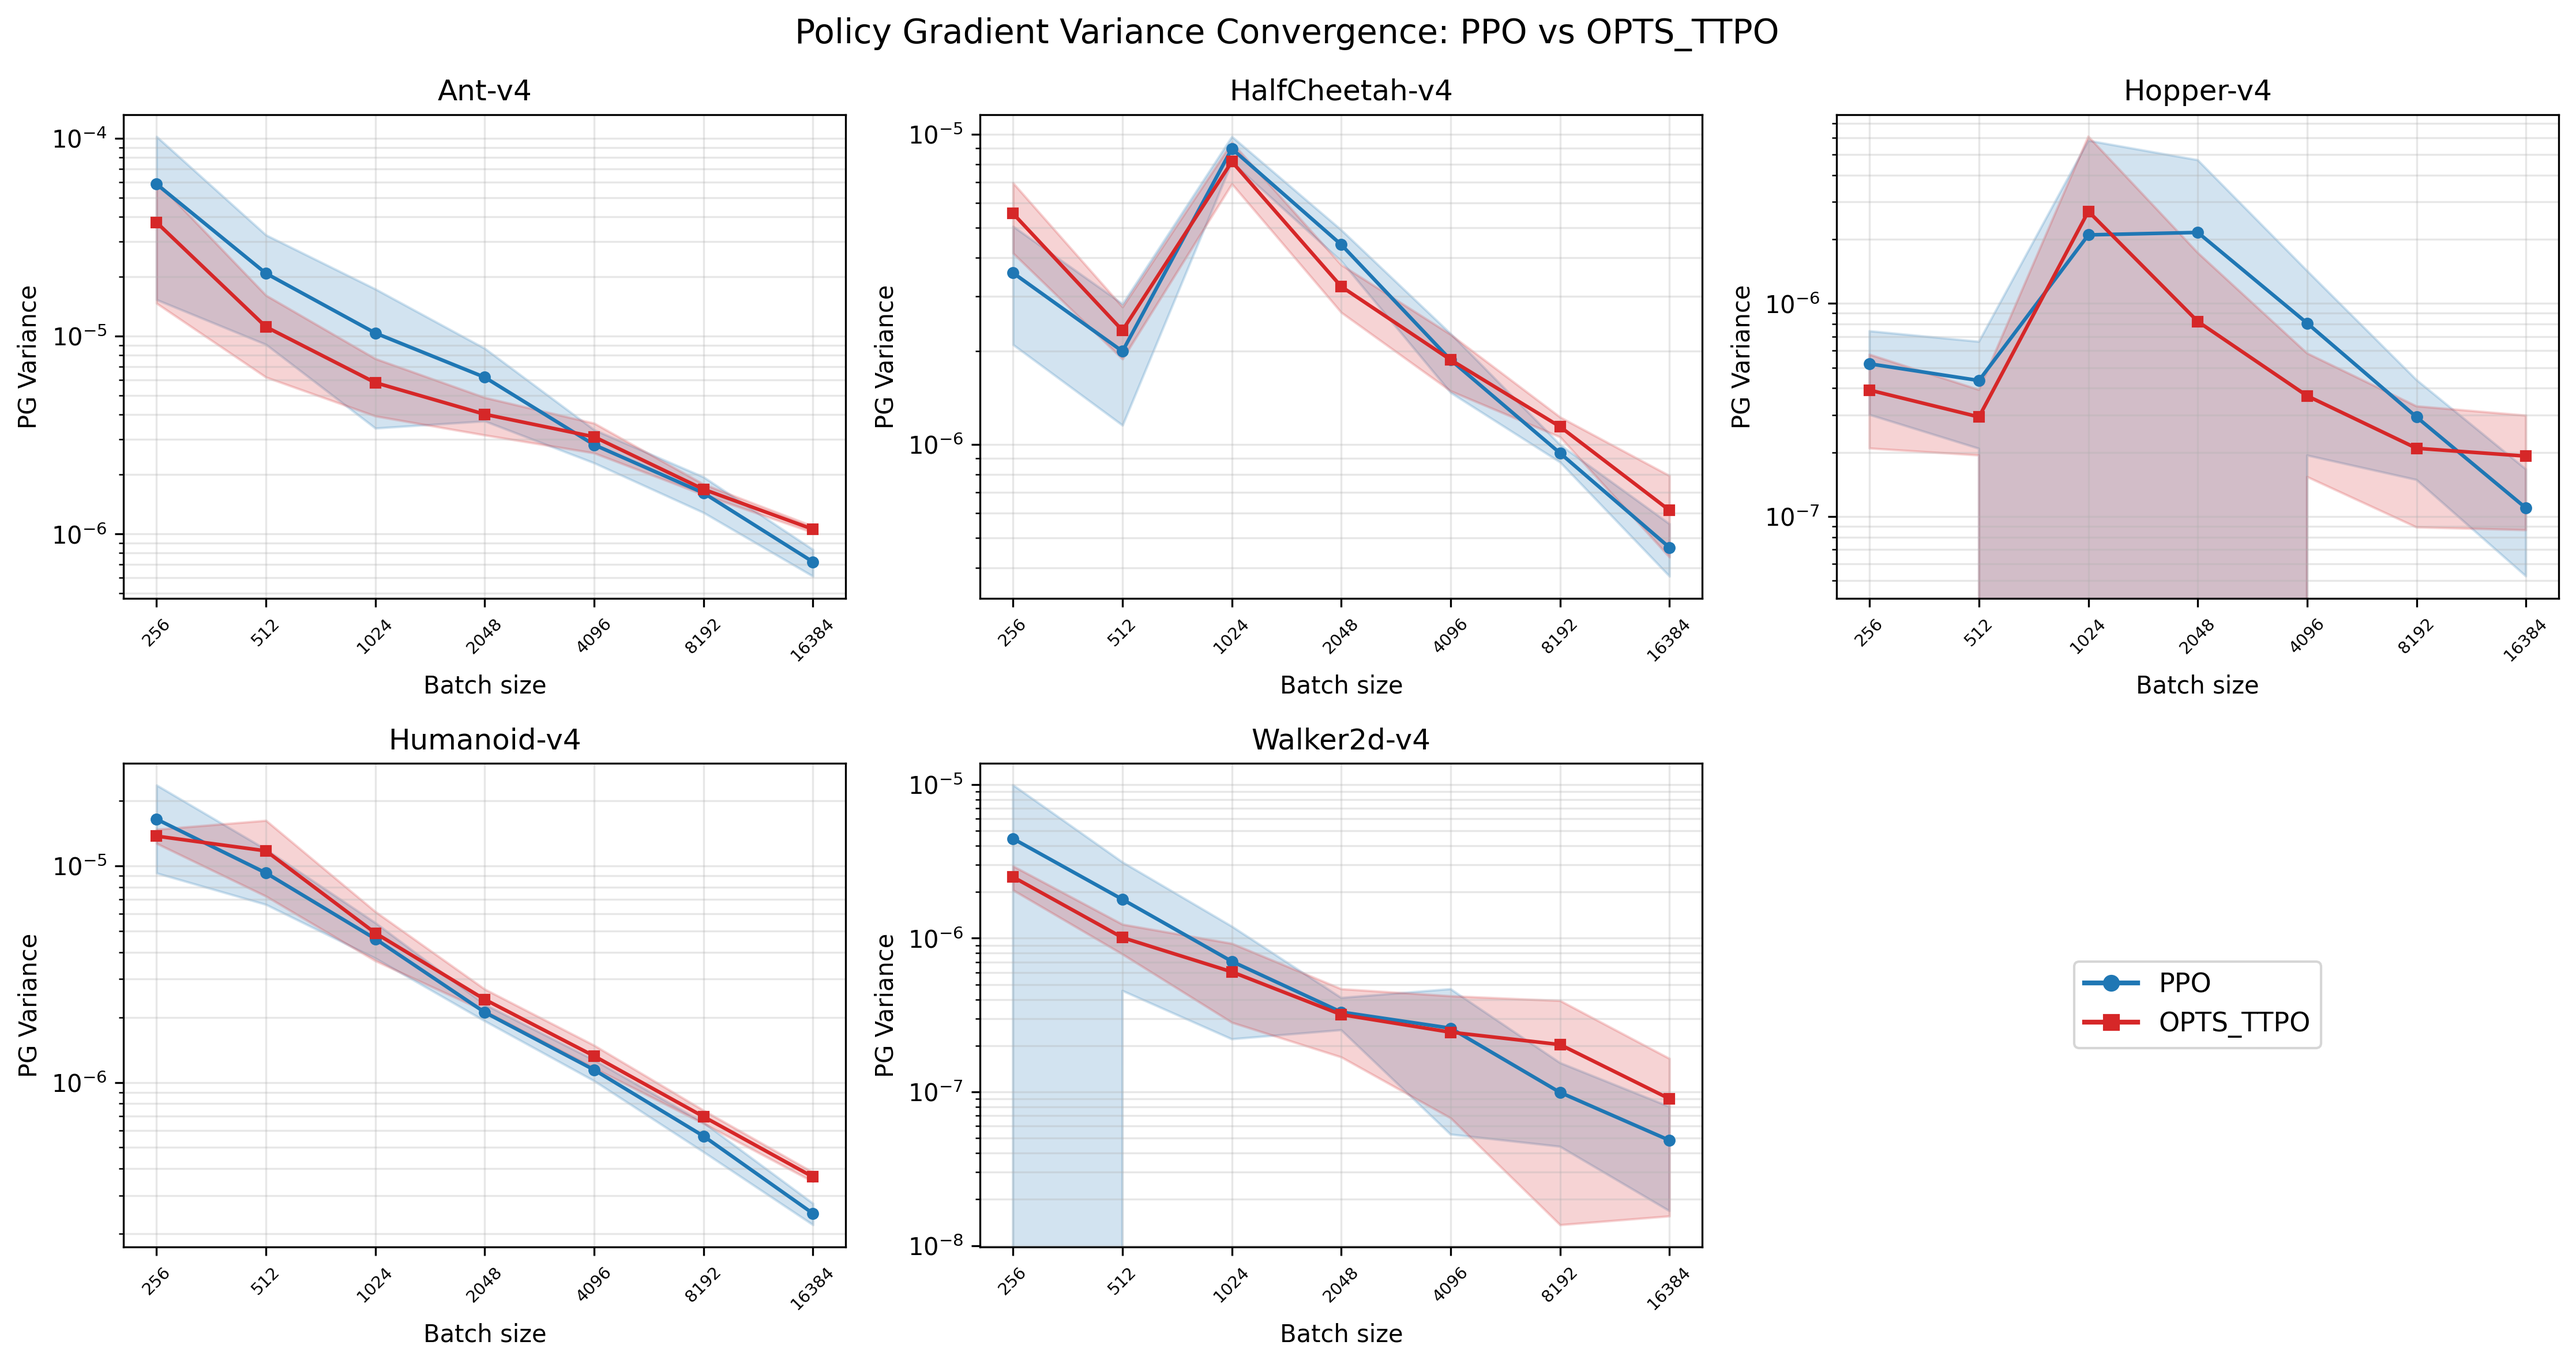
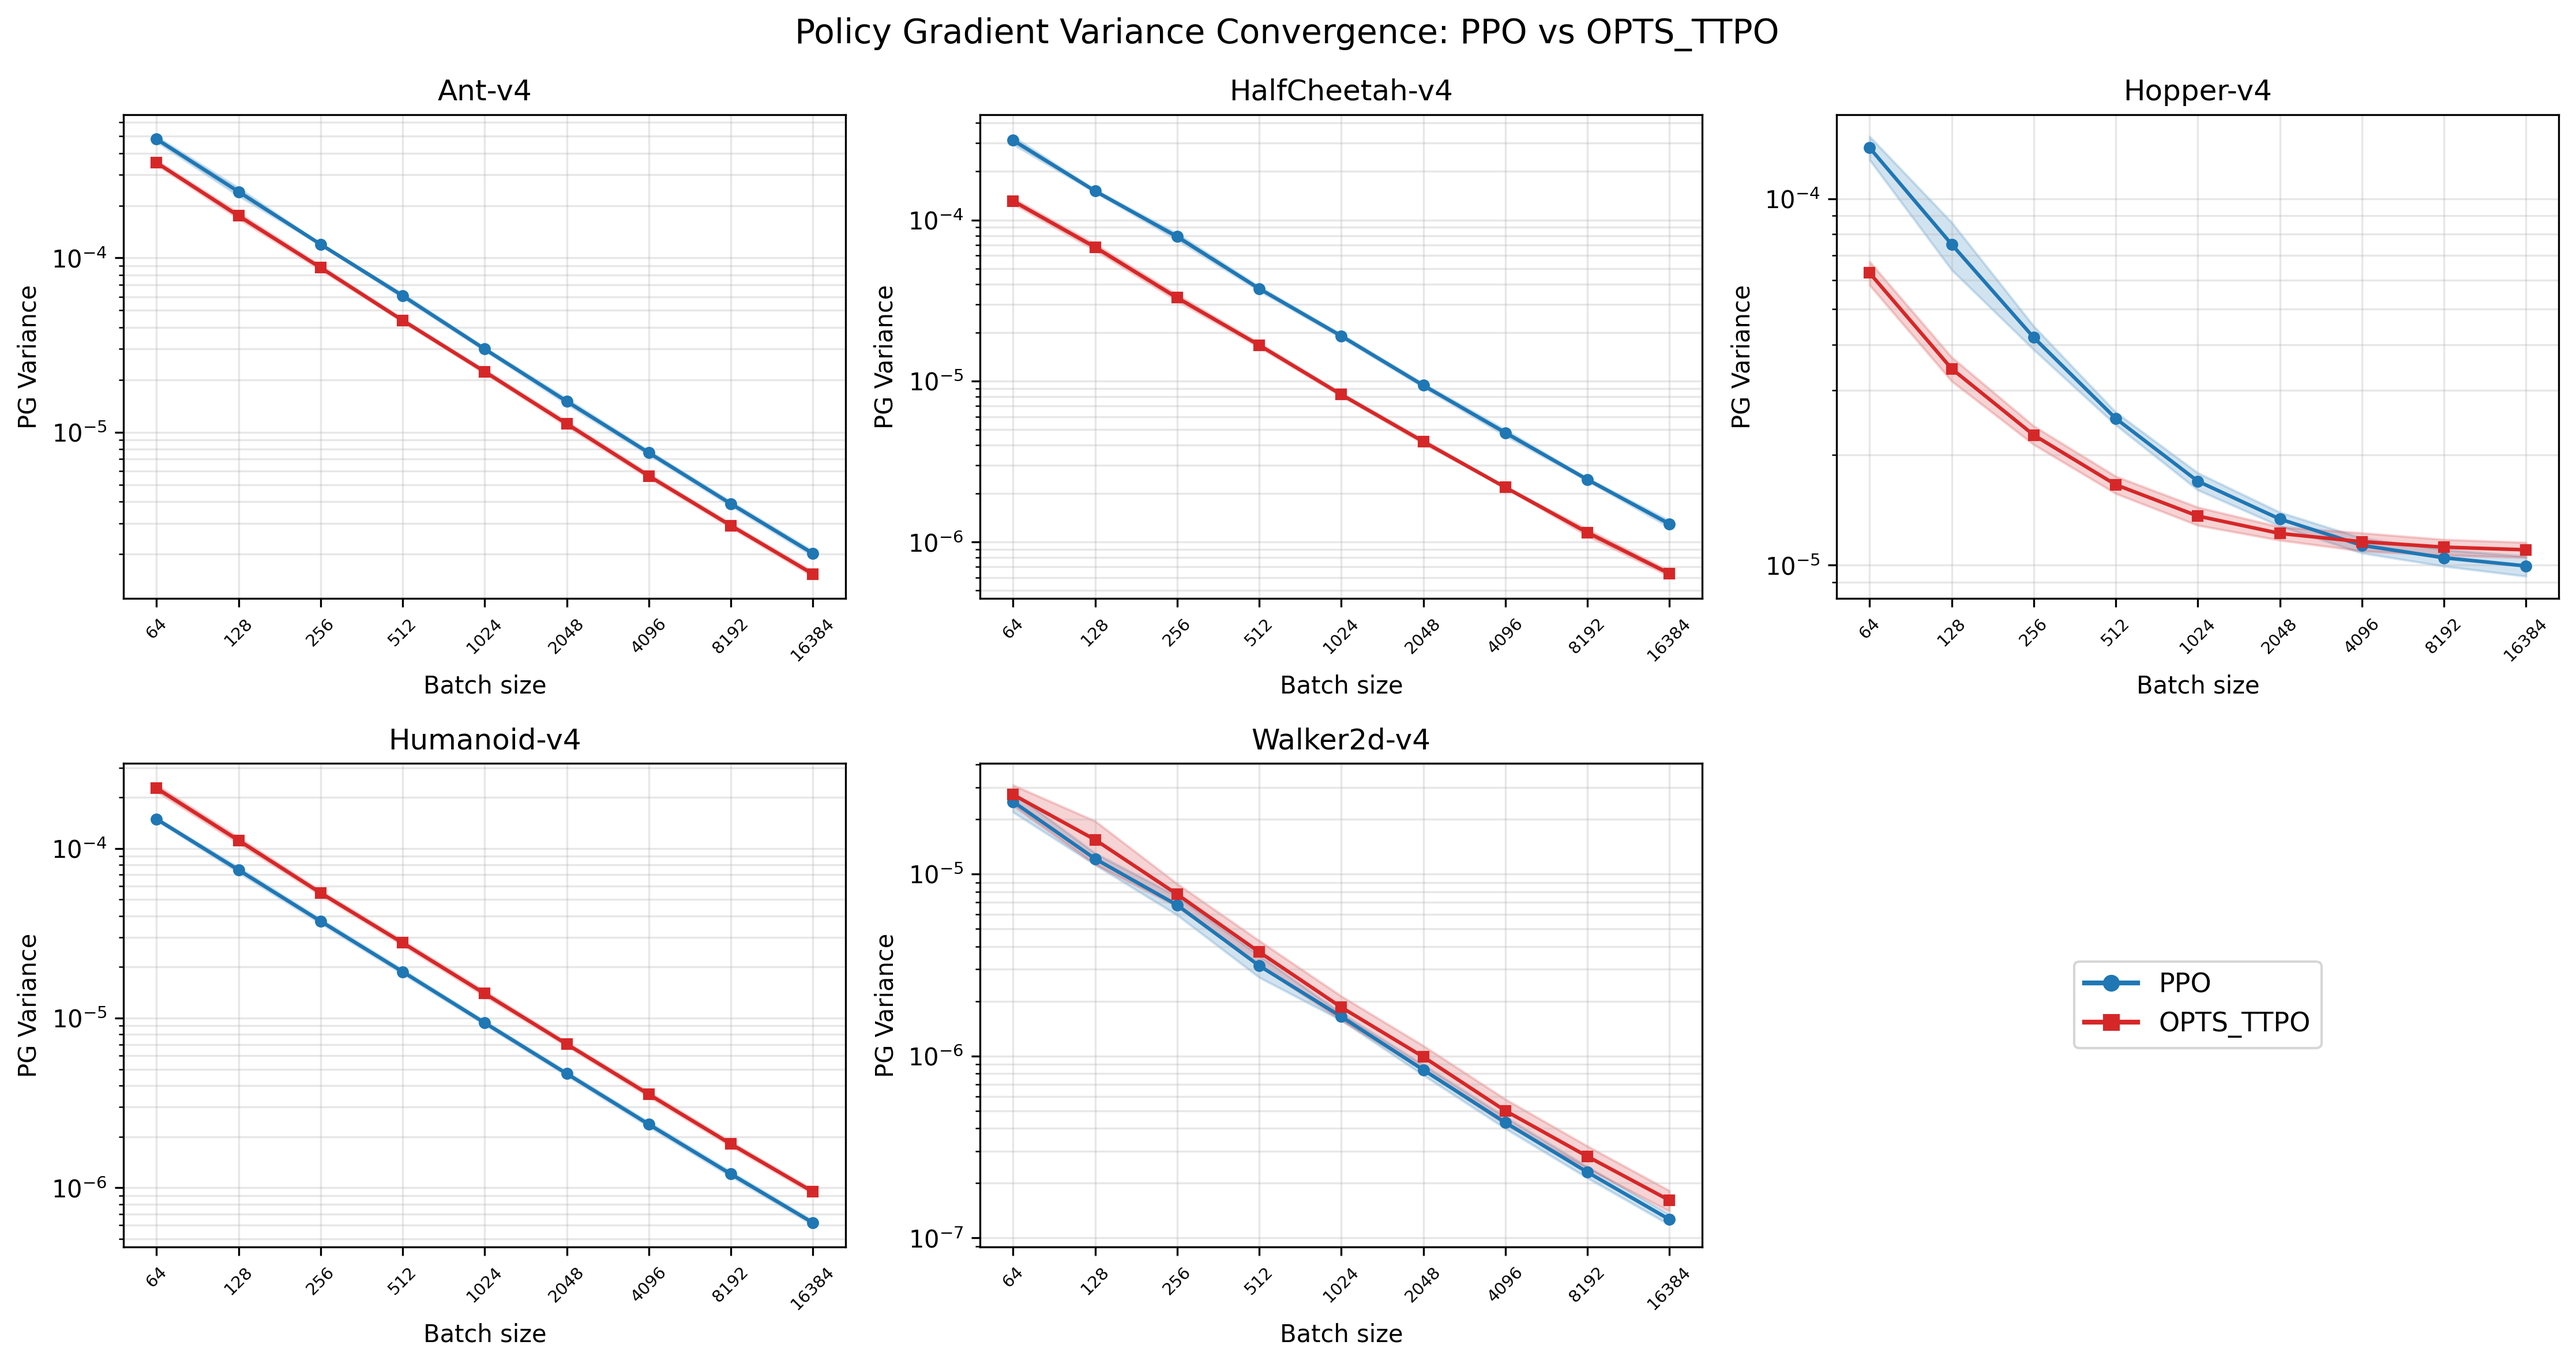
update scaling_verify

diff --git a/Atari_MuJoCo/experiments/verify_scaling_variance.py b/Atari_MuJoCo/experiments/verify_scaling_variance.py
@@ -12,7 +12,7 @@ from torch.distributions.normal import Normal
 sys.path.insert(0, os.path.join(os.path.dirname(__file__), '..', 'cleanrl', 'cleanrl'))
 from opts_ttpo_continuous_action import (
     Agent, MuJoCoStateSnapshotWrapper,
-    compute_tree_gae, select_next_states, compute_branch_weight,
+    compute_tree_gae, compute_branch_weight,
 )
 
 
@@ -58,6 +58,106 @@ def compute_gae(rewards, values, dones, next_value, gamma=0.99, gae_lambda=0.95)
         delta = rewards[t] + gamma * nextvalues * nextnonterminal - values[t]
         advantages[t] = lastgaelam = delta + gamma * gae_lambda * nextnonterminal * lastgaelam
     return advantages
+
+
+def select_next_states_v2(
+    terminated_envs, current_step, num_steps, advantages, parent_indices,
+    tree_indices, skip_search, search_count, max_search, c=1.0, gamma=0.99,
+):
+    """Modified select_next_states for variance verification:
+    - No return_threshold filtering; filter by whether selected position is last in path
+    - Use raw weighted cumulative advantage (no division by remaining steps)
+    """
+    selected = []
+    n_steps = current_step + 1
+
+    for env_idx in terminated_envs:
+        env_tree_ids = torch.unique(tree_indices[:n_steps, env_idx]).tolist()
+        num_env_trees = len(env_tree_ids)
+
+        if skip_search:
+            selected.append(-(num_env_trees + 1))
+            continue
+
+        best_tuct_val = float('-inf')
+        best_step_overall = None
+        best_tree_id = None
+        best_depth = None
+        best_path_len = None
+
+        for tid in env_tree_ids:
+            current_count = search_count[env_idx].get(tid, 0)
+            if current_count >= max_search:
+                continue
+
+            tree_mask = tree_indices[:n_steps, env_idx] == tid
+            tree_node_steps = tree_mask.nonzero(as_tuple=True)[0]
+            tree_advs = advantages[tree_node_steps, env_idx].clone()
+            tree_parents = parent_indices[tree_node_steps, env_idx]
+
+            root_local_mask = tree_parents < 0
+            root_steps = tree_node_steps[root_local_mask]
+            root_advs = advantages[root_steps, env_idx]
+            best_root_local = root_advs.argmax().item()
+            current_node = root_steps[best_root_local].item()
+
+            path = [current_node]
+            while True:
+                children_of_node = (parent_indices[:n_steps, env_idx] == current_node) & tree_mask
+                children_steps = children_of_node.nonzero(as_tuple=True)[0]
+                if len(children_steps) == 0:
+                    break
+                child_advs = advantages[children_steps, env_idx]
+                best_child = child_advs.argmax().item()
+                current_node = children_steps[best_child].item()
+                path.append(current_node)
+
+            path_t = torch.tensor(path, device=advantages.device)
+            path_local_mask = torch.isin(tree_node_steps, path_t)
+            path_advs = tree_advs[path_local_mask]
+            path_steps = tree_node_steps[path_local_mask]
+
+            n = len(path_advs)
+            exploitation = torch.zeros_like(path_advs)
+            discounted_sum = 0.0
+            for k in range(n - 1, -1, -1):
+                discounted_sum = -path_advs[k].item() + gamma * discounted_sum
+                exploitation[k] = discounted_sum  # 直接使用加权累加，不除以 (n-k)
+
+            path_parents_vals = tree_parents[path_local_mask]
+            sibling_counts = torch.zeros(len(path_steps), device=advantages.device)
+            for i in range(len(path_steps)):
+                sibling_counts[i] = (tree_parents == path_parents_vals[i]).sum()
+
+            max_abs_exploitation = exploitation.abs().max().item()
+            if max_abs_exploitation == 0:
+                max_abs_exploitation = 1.0
+
+            exploration = (sibling_counts - 1) * max_abs_exploitation
+            tuct = exploitation - c * exploration
+
+            max_path_idx = tuct.argmax().item()
+
+            # 过滤：所选位置是最后一个位置 → 跳过该树
+            if max_path_idx == n - 1:
+                continue
+
+            max_tuct_val = tuct[max_path_idx].item()
+
+            if max_tuct_val > best_tuct_val:
+                best_tuct_val = max_tuct_val
+                best_step_overall = path_steps[max_path_idx].item()
+                best_tree_id = tid
+                best_depth = max_path_idx
+                best_path_len = len(path)
+
+        if best_step_overall is None:
+            selected.append(-(num_env_trees + 1))
+        else:
+            search_count[env_idx][best_tree_id] = search_count[env_idx].get(best_tree_id, 0) + 1
+            selected.append(best_step_overall)
+
+    return selected
 
 
 def collect_ppo_steps(env, agent, num_steps, device, resume_state=None):
@@ -111,7 +211,7 @@ def collect_ppo_steps(env, agent, num_steps, device, resume_state=None):
 def collect_opts_steps(env, agent, num_steps, device, max_search, c,
                        gamma=0.99, gae_lambda=0.95):
     """OPTS 树搜索 rollout（单环境）。
-    return_threshold 使用当前已完成 episode 的 mean return。
+    不使用 return_threshold，改为按所选位置是否是最后一个位置过滤。
     """
     env_idx = 0
     num_envs = 1
@@ -129,15 +229,12 @@ def collect_opts_steps(env, agent, num_steps, device, max_search, c,
     env_states = [None] * num_steps
     root_branch_counts = [{}]
     search_count = [{}]
-    tree_max_returns = [{}]
 
     obs_np, _ = env.reset()
     next_obs = torch.Tensor(obs_np).to(device)
     root_states = [env.clone_state()]
     current_parent = -1
-    episodic_returns = []
-    episodic_return_info = []  # (ep_return, tid, step)
-    mean_return = None
+    episode_count = 0
 
     for step in range(num_steps):
         obs[step] = next_obs
@@ -161,37 +258,7 @@ def collect_opts_steps(env, agent, num_steps, device, max_search, c,
         env_states[step] = env.clone_state()
 
         if done and "episode" in info:
-            ep_r = info['episode']['r']
-            ep_return = float(ep_r[0] if hasattr(ep_r, '__getitem__') else ep_r)
-            episodic_returns.append(ep_return)
-            episodic_return_info.append((ep_return, tree_indices[step, env_idx].item(), step))
-            tid = tree_indices[step, env_idx].item()
-            if ep_return > tree_max_returns[0].get(tid, float('-inf')):
-                tree_max_returns[0][tid] = ep_return
-
-            # 实时计算 branch_weights 并用 IPW 加权算 mean_return
-            cur_weights = compute_branch_weight(
-                num_steps=step + 1,
-                parent_indices=parent_indices[:step + 1],
-                state_branches=state_branches[:step + 1],
-                env_indices=[env_idx],
-                root_branch_counts=root_branch_counts,
-            )
-            tid_groups = {}
-            for er, t_id, t_step in episodic_return_info:
-                if t_id not in tid_groups:
-                    tid_groups[t_id] = []
-                tid_groups[t_id].append((er, t_step))
-            aggregated_returns = []
-            for t_id, entries in tid_groups.items():
-                weighted_sum = 0.0
-                weight_sum = 0.0
-                for er, t_step in entries:
-                    w = cur_weights[t_step, 0].item()
-                    weighted_sum += er / w
-                    weight_sum += 1.0 / w
-                aggregated_returns.append(weighted_sum / weight_sum if weight_sum > 0 else 0.0)
-            mean_return = sum(aggregated_returns) / len(aggregated_returns)
+            episode_count += 1
 
         next_obs = torch.Tensor(obs_np).to(device)
 
@@ -210,7 +277,7 @@ def collect_opts_steps(env, agent, num_steps, device, max_search, c,
 
             skip_search = step >= num_steps - 1
 
-            selected = select_next_states(
+            selected = select_next_states_v2(
                 terminated_envs=[env_idx],
                 current_step=step,
                 num_steps=num_steps,
@@ -221,8 +288,6 @@ def collect_opts_steps(env, agent, num_steps, device, max_search, c,
                 search_count=search_count,
                 max_search=max_search,
                 c=c,
-                tree_max_returns=tree_max_returns,
-                return_threshold=mean_return,
                 gamma=gamma,
             )
 
@@ -267,7 +332,7 @@ def collect_opts_steps(env, agent, num_steps, device, max_search, c,
         root_branch_counts=root_branch_counts,
     )
 
-    print(f"  OPTS: {len(episodic_returns)} episodes, mean_return(IPW)={mean_return}")
+    print(f"  OPTS: {episode_count} episodes completed")
 
     return {
         'obs': obs.cpu(),
@@ -419,8 +484,10 @@ if __name__ == "__main__":
     parser.add_argument("--env-id", type=str, required=True)
     parser.add_argument("--seed", type=int, default=1)
     parser.add_argument("--checkpoint-dir", type=str, default="checkpoints")
+    parser.add_argument("--total-steps", type=int, default=1000000,
+                        help="total PPO steps to collect (for computing g*)")
     parser.add_argument("--num-steps", type=int, default=100000,
-                        help="total steps to collect (must be > max batch_size)")
+                        help="steps for bootstrap sampling (PPO uses first num-steps, OPTS uses all num-steps)")
     parser.add_argument("--batch-sizes", type=str, default="256,512,1024,2048,4096,8192,16384",
                         help="comma-separated list of batch sizes")
     parser.add_argument("--no-cuda", action="store_true")
@@ -437,6 +504,9 @@ if __name__ == "__main__":
     max_bs = max(batch_sizes)
     if args.num_steps <= max_bs:
         print(f"ERROR: --num-steps ({args.num_steps}) must be greater than max batch_size ({max_bs})")
+        sys.exit(1)
+    if args.total_steps < args.num_steps:
+        print(f"ERROR: --total-steps ({args.total_steps}) must be >= --num-steps ({args.num_steps})")
         sys.exit(1)
 
     device = torch.device("cpu" if args.no_cuda else ("cuda" if torch.cuda.is_available() else "cpu"))
@@ -464,17 +534,21 @@ if __name__ == "__main__":
     agent.load_state_dict(checkpoint["model_state_dict"])
     agent.eval()
 
+    # PPO 跑 total-steps（用于计算 g*），bootstrap 从前 num-steps 中采样
     ppo_cache_path = os.path.join(cache_dir, f"{args.env_id}_seed{args.seed}_ppo.pt")
     ppo_obs, ppo_act, ppo_adv = load_or_collect_ppo(
-        env_ppo, agent, args.num_steps, device, ppo_cache_path,
+        env_ppo, agent, args.total_steps, device, ppo_cache_path,
         args.gamma, args.gae_lambda)
 
-    print("Computing g* from full PPO buffer...")
+    print(f"Computing g* from full PPO buffer ({args.total_steps} steps)...")
     g_star = compute_pg_gradient(agent, ppo_obs, ppo_act, ppo_adv, device)
 
-    print(f"PPO bootstrap variance estimation ({args.num_bootstrap} resamples per B)...")
+    # PPO bootstrap 仅使用前 num-steps
+    print(f"PPO bootstrap variance estimation (from first {args.num_steps} steps, "
+          f"{args.num_bootstrap} resamples per B)...")
     ppo_variances = estimate_scaling_variance(
-        agent, ppo_obs, ppo_act, ppo_adv, batch_sizes, g_star, device,
+        agent, ppo_obs[:args.num_steps], ppo_act[:args.num_steps],
+        ppo_adv[:args.num_steps], batch_sizes, g_star, device,
         num_bootstrap=args.num_bootstrap)
     env_ppo.close()
 
@@ -483,13 +557,15 @@ if __name__ == "__main__":
     env_opts = make_eval_env(args.env_id, gamma=args.gamma, with_snapshot=True)
     restore_normalization(env_opts, checkpoint)
 
+    # OPTS 只跑 num-steps，bootstrap 使用全部数据
     opts_cache_path = os.path.join(cache_dir, f"{args.env_id}_seed{args.seed}_opts_ms{args.max_search_per_tree}.pt")
     opts_obs, opts_act, opts_adv, opts_weights = load_or_collect_opts(
         env_opts, agent, args.num_steps, device, opts_cache_path,
         args.max_search_per_tree, args.c, args.gamma, args.gae_lambda)
     env_opts.close()
 
-    print(f"OPTS bootstrap variance estimation ({args.num_bootstrap} resamples per B)...")
+    print(f"OPTS bootstrap variance estimation (from all {args.num_steps} steps, "
+          f"{args.num_bootstrap} resamples per B)...")
     opts_variances = estimate_scaling_variance(
         agent, opts_obs, opts_act, opts_adv, batch_sizes, g_star, device,
         num_bootstrap=args.num_bootstrap, weights=opts_weights)
@@ -499,6 +575,7 @@ if __name__ == "__main__":
     result = {
         "env_id": args.env_id,
         "seed": args.seed,
+        "total_steps": args.total_steps,
         "num_steps": args.num_steps,
         "num_bootstrap": args.num_bootstrap,
         "batch_sizes": sorted(set(ppo_variances.keys()) | set(opts_variances.keys())),
